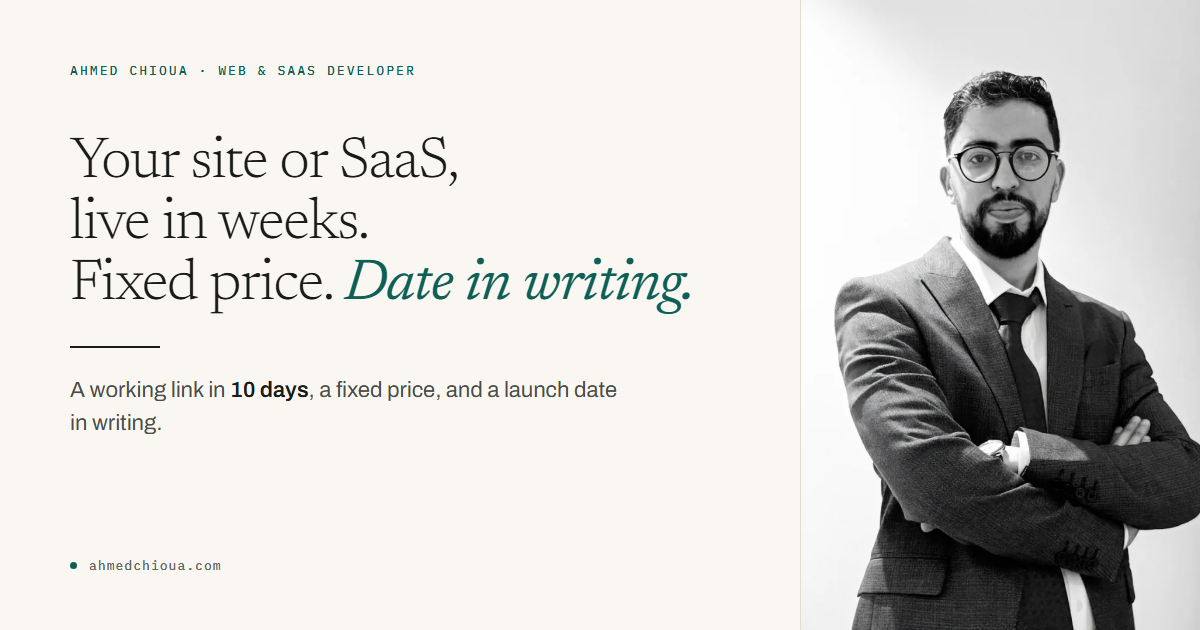
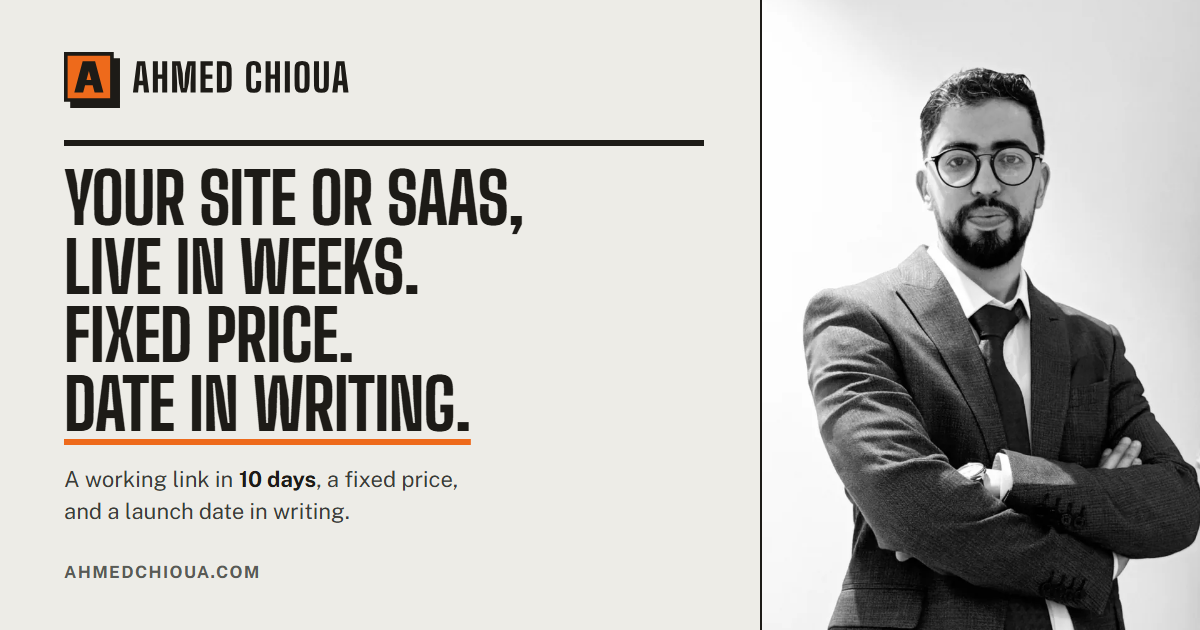
feat: the link-preview image in the Industrial system, with the Key
og-image.png still carried the editorial design (serif headline, teal
italics). It now uses the Industrial system: the horizontal lockup, the
headline in Big Shoulders on the 6px machined edge, "Date in writing."
underscored in the signal, and the portrait. The headline is unchanged, so
the og:image:alt texts (index.html, src/content/fr/home.js) still describe it.

brand/og-image/og-image.html is the source, with the render command.

diff --git a/brand/og-image/og-image.html b/brand/og-image/og-image.html
@@ -1,0 +1,59 @@
+<!doctype html>
+<!--
+  Source of public/og-image.png (1200×630, the size index.html declares). The headline matches the
+  hero's and the og:image:alt text in index.html and src/content/fr/home.js; change all three
+  together. Render with headless Chrome from the repo root:
+
+    chrome --headless=new --hide-scrollbars --force-device-scale-factor=1 --window-size=1200,630 \
+      --screenshot=public/og-image.png file:///<repo>/brand/og-image/og-image.html
+
+  Chrome may add a few rows of window chrome to the height; crop the PNG to 1200×630 if it does.
+-->
+<html lang="en">
+<head>
+<meta charset="utf-8">
+<title>OG image</title>
+<style>
+  @font-face { font-family: 'Big Shoulders Display'; font-weight: 800; src: url('../../src/fonts/big-shoulders-800.woff2') format('woff2'); }
+  @font-face { font-family: 'Public Sans'; font-weight: 400 700; src: url('../../src/fonts/public-sans.woff2') format('woff2'); }
+  :root { --paper: #edece7; --ink: #1d1b17; --ink-2: #3b3d39; --ink-muted: #595b56; --signal: #ee6a1b; }
+  * { margin: 0; padding: 0; box-sizing: border-box; }
+  html, body { width: 1200px; height: 630px; overflow: hidden; background: var(--paper); }
+  body {
+    display: grid; grid-template-columns: 760px 440px;
+    font-family: 'Public Sans', Arial, sans-serif; color: var(--ink);
+    -webkit-font-smoothing: antialiased;
+  }
+  .text { display: flex; flex-direction: column; padding: 52px 56px 48px 64px; }
+  .logo { height: 56px; width: auto; align-self: flex-start; }
+  /* The section head's machined edge: a 6px graphite bar the heading sits on. */
+  h1 {
+    margin-top: 32px; padding-top: 18px; border-top: 6px solid var(--ink);
+    font-family: 'Big Shoulders Display', 'Arial Narrow', sans-serif; font-weight: 800;
+    text-transform: uppercase; font-size: 70px; line-height: 0.98; letter-spacing: -0.01em;
+  }
+  /* Heading emphasis is never italic: it is underscored with the signal. */
+  h1 em {
+    font-style: normal; white-space: nowrap; text-decoration: underline; text-decoration-color: var(--signal);
+    text-decoration-thickness: 6px; text-underline-offset: 8px;
+  }
+  .lead { margin-top: 26px; font-size: 22px; line-height: 1.45; color: var(--ink-2); max-width: 30ch; }
+  .lead strong { color: var(--ink); font-weight: 700; }
+  .url {
+    margin-top: auto; font-size: 17px; font-weight: 700; letter-spacing: 0.08em;
+    text-transform: uppercase; color: var(--ink-muted);
+  }
+  .photo { border-left: 2px solid var(--ink); overflow: hidden; }
+  .photo img { width: 100%; height: 100%; object-fit: cover; object-position: 50% 18%; filter: grayscale(1); display: block; }
+</style>
+</head>
+<body>
+  <div class="text">
+    <img class="logo" src="../logo-kit/master/ahmed-chioua-horizontal-colour.svg" alt="Ahmed Chioua">
+    <h1>Your site or SaaS,<br>live in weeks.<br>Fixed price.<br><em>Date in writing.</em></h1>
+    <p class="lead">A working link in <strong>10 days</strong>, a fixed price, and a launch date in writing.</p>
+    <p class="url">ahmedchioua.com</p>
+  </div>
+  <div class="photo"><img src="../../public/headshot-700.webp" alt=""></div>
+</body>
+</html>
